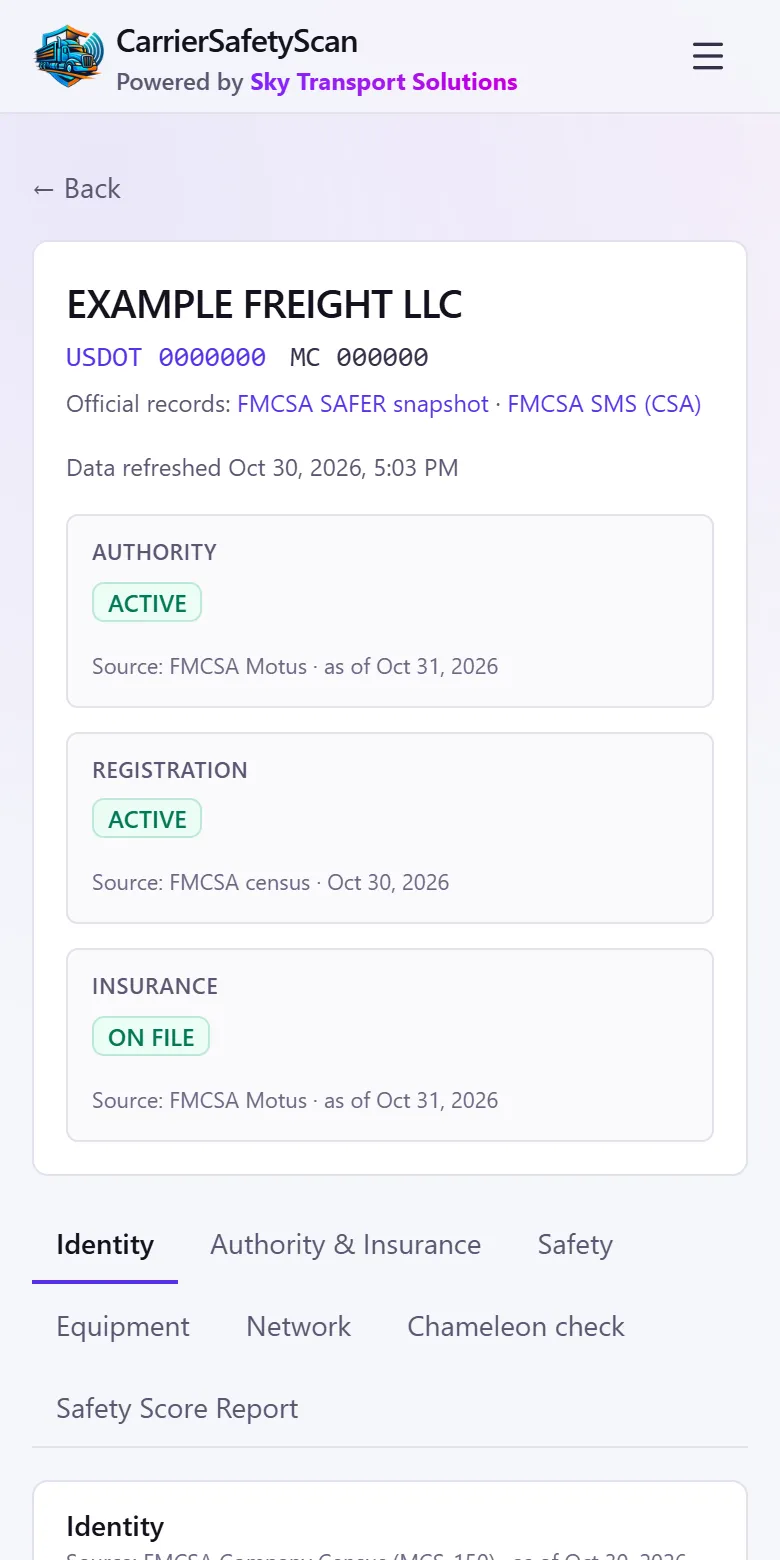
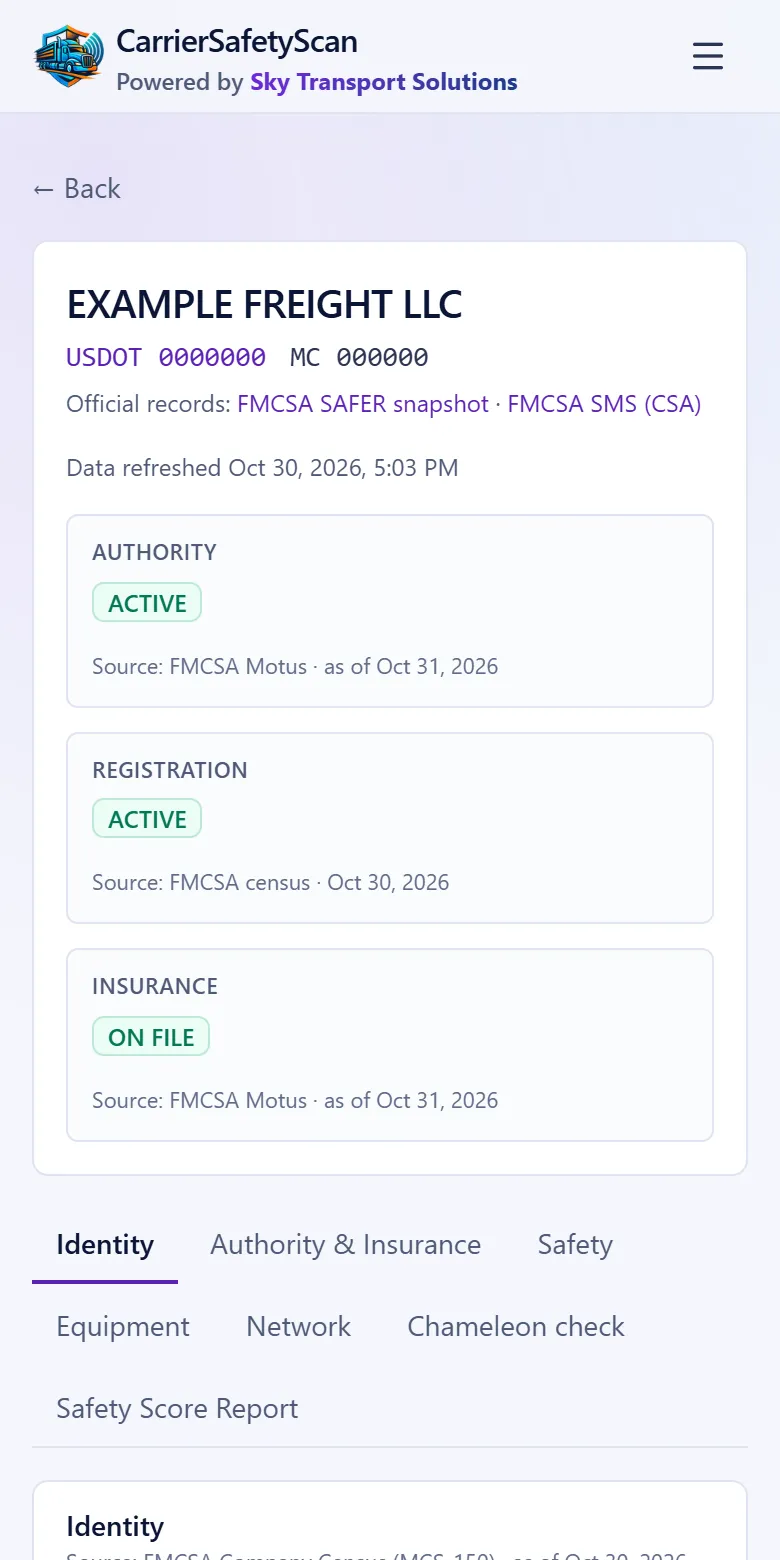
New color themes: deep blue, white and violet; black, blue and orange
- Light: white with deep blue actions and violet as the accent.
- Dark: black with blue, and orange as the one accent.
- Panels with white text get their own tokens, so they stay readable in
  both themes; printing always uses the light colors.
- The landing page's sample screens are retaken in the new colors.

diff --git a/frontend/src/index.css b/frontend/src/index.css
@@ -8,9 +8,10 @@
  * indigo tint, so every page takes its colours from this one place. Status colours (emerald /
  * amber / red / sky): 50 = the tint behind a badge, 600 = icons and solid marks, 700 = text.
  *
- * One rule keeps the primary action easy to find: violet means "you can click this".
- * `cta` is for the main action on a screen, `accent` for other interactive violet (selected
- * toggles, focus borders), `accent-strong` for links. Icons, labels and info callouts that
+ * One rule keeps the primary action easy to find: the brand colours mean "you can click this".
+ * `cta` is for the main action on a screen (deep blue; orange in dark), `accent` for other
+ * interactive marks (selected toggles, focus borders: violet; blue in dark), `accent-strong` for
+ * links. Icons, labels and info callouts that
  * cannot be clicked use the slate or sky scales instead. The `brand-*` glows are decoration
  * only and never sit on a control.
  *
@@ -18,17 +19,17 @@
  * theme is below as :root[data-theme="dark"]; the header's theme switch (src/theme.ts) sets it.
  */
 @theme static {
-  --color-canvas: #f5f6fa; /* page background */
+  --color-canvas: #f5f7fc; /* page background */
   --color-surface: #ffffff; /* cards */
 
-  --color-cta: #6d4aff; /* primary action */
-  --color-cta-hover: #5b39f0; /* deepens under the pointer */
-  --color-cta-active: #4c2bd9; /* pressed */
+  --color-cta: #1e3a8a; /* primary action */
+  --color-cta-hover: #172f73; /* deepens under the pointer */
+  --color-cta-active: #122559; /* pressed */
   --color-cta-ink: #ffffff; /* label on any cta state: 5.2-8:1 */
-  --color-accent: #6d4aff; /* other interactive violet: selected toggles, focus borders */
-  --color-accent-strong: #5631e8; /* links: 7:1 on surface */
-  --color-accent-soft: #efeaff; /* tint behind a selected control */
-  --color-focus: #6d4aff; /* keyboard focus ring */
+  --color-accent: #6d28d9; /* other interactive violet: selected toggles, focus borders */
+  --color-accent-strong: #5b21b6; /* links: 7:1 on surface */
+  --color-accent-soft: #f1ebff; /* tint behind a selected control */
+  --color-focus: #6d28d9; /* keyboard focus ring */
 
   /* Semantic feedback: text / tinted background pairs. */
   --color-success: var(--color-emerald-700);
@@ -44,25 +45,49 @@
   --color-chart-1: #3987e5;
   --color-chart-2: #d95926;
 
+  /* Solid brand panels with white text on them (5:1 or more). */
+  --color-panel-a: #5b21b6;
+  --color-panel-b: #1e3a8a;
+
   /* Decorative brand light: glows, shadows, the hero illustration. Never on a control. */
-  --color-brand-glow: #8b5cf6;
-  --color-brand-glow-alt: #e879f9;
+  --color-brand-glow: #6d28d9;
+  --color-brand-glow-alt: #2563eb;
 }
 
-@theme {
+@theme static {
   --font-sans: 'Inter', ui-sans-serif, system-ui, sans-serif;
 
-  --color-slate-50: #f7f7fb; /* raised fill: table heads, hover rows */
-  --color-slate-100: #efeef6; /* sunken fill: chips, pending badges */
-  --color-slate-200: #e2e1ec; /* hairline */
-  --color-slate-300: #8f8ba8; /* input border: 3.3:1 */
-  --color-slate-400: #6b6782; /* subtle text, placeholders: 5.4:1 */
-  --color-slate-500: #5a5671; /* muted text, labels: 7:1 */
-  --color-slate-600: #4a4661;
-  --color-slate-700: #34314a; /* body copy */
-  --color-slate-800: #24213a;
-  --color-slate-900: #14121f; /* headings, primary text */
-  --color-slate-950: #0b0a14;
+  --color-slate-50: #f6f8fc; /* raised fill: table heads, hover rows */
+  --color-slate-100: #eef1f8; /* sunken fill: chips, pending badges */
+  --color-slate-200: #dfe4f0; /* hairline */
+  --color-slate-300: #8490ad; /* input border: 3.3:1 */
+  --color-slate-400: #5f6b88; /* subtle text, placeholders: 5.4:1 */
+  --color-slate-500: #4e5a77; /* muted text, labels: 7:1 */
+  --color-slate-600: #3e4966;
+  --color-slate-700: #2b3552; /* body copy */
+  --color-slate-800: #1b2540;
+  --color-slate-900: #0b1636; /* headings, primary text */
+  --color-slate-950: #060d24;
+
+  --color-violet-50: #f5f3ff;
+  --color-violet-100: #ede9fe;
+  --color-violet-200: #ddd6fe;
+  --color-violet-300: #c4b5fd;
+  --color-violet-400: #a78bfa;
+  --color-violet-500: #8b5cf6;
+  --color-violet-600: #6d28d9;
+  --color-violet-700: #5b21b6;
+  --color-violet-900: #3b0f7a;
+  --color-violet-950: #2e1065;
+  --color-fuchsia-200: #c7d2fe;
+  --color-fuchsia-300: #a5b4fc;
+  --color-fuchsia-400: #6d7fe8;
+  --color-fuchsia-500: #3b4fd8;
+  --color-fuchsia-600: #1e3a8a;
+  --color-fuchsia-700: #172f73;
+  --color-fuchsia-800: #122559;
+  --color-indigo-400: #6d7fe8;
+  --color-indigo-600: #1e3a8a;
 
   --color-emerald-50: #ecfdf5;
   --color-emerald-200: #a7f3d0;
@@ -90,27 +115,50 @@
 /* Dark theme: <html data-theme="dark">, set by the theme switch (see src/theme.ts). */
 :root[data-theme='dark'] {
   color-scheme: dark;
-  --color-canvas: #110f1c;
-  --color-surface: #1a1828;
-  --color-cta: #a48bff;
-  --color-cta-hover: #b9a6ff;
-  --color-cta-active: #9376f5;
-  --color-cta-ink: #140f2b;
-  --color-accent: #a48bff;
-  --color-accent-strong: #b7a6ff;
-  --color-accent-soft: #2a2350;
-  --color-focus: #c9bbff;
-  --color-slate-50: #221f33;
-  --color-slate-100: #2a2740;
-  --color-slate-200: #2f2c45;
-  --color-slate-300: #6b6790;
-  --color-slate-400: #8f8bab;
-  --color-slate-500: #a9a5c2;
-  --color-slate-600: #bab6d0;
-  --color-slate-700: #cdcae0;
-  --color-slate-800: #e2e0ee;
-  --color-slate-900: #f4f3fa;
-  --color-slate-950: #fbfaff;
+  --color-canvas: #000000;
+  --color-surface: #0f1218;
+  --color-cta: #ff8a1f;
+  --color-cta-hover: #ff9d45;
+  --color-cta-active: #f07a0a;
+  --color-cta-ink: #0b0b0b;
+  --color-accent: #4d9fff;
+  --color-accent-strong: #6cb4ff;
+  --color-accent-soft: #10233f;
+  --color-focus: #ff9d45;
+  --color-panel-a: #1d4ed8;
+  --color-panel-b: #0b2a66;
+  --color-brand-glow: #2f7fff;
+  --color-brand-glow-alt: #ff8a1f;
+  --color-slate-50: #171b22;
+  --color-slate-100: #1d222b;
+  --color-slate-200: #272d38;
+  --color-slate-300: #6b7484;
+  --color-slate-400: #929bab;
+  --color-slate-500: #a9b1be;
+  --color-slate-600: #bdc4cf;
+  --color-slate-700: #d1d6de;
+  --color-slate-800: #e5e8ed;
+  --color-slate-900: #f5f6f8;
+  --color-slate-950: #ffffff;
+  --color-violet-50: #0d2038;
+  --color-violet-100: #12325a;
+  --color-violet-200: #1d4468;
+  --color-violet-300: #8cc4ff;
+  --color-violet-400: #6cb4ff;
+  --color-violet-500: #4d9fff;
+  --color-violet-600: #ff9d45;
+  --color-violet-700: #ffb877;
+  --color-violet-900: #0b1f3a;
+  --color-violet-950: #dbeafe;
+  --color-fuchsia-200: #ffd9b3;
+  --color-fuchsia-300: #ffb877;
+  --color-fuchsia-400: #ff9d45;
+  --color-fuchsia-500: #ff8a1f;
+  --color-fuchsia-600: #ff8a1f;
+  --color-fuchsia-700: #ffa552;
+  --color-fuchsia-800: #7a3a05;
+  --color-indigo-400: #4d9fff;
+  --color-indigo-600: #ffb877;
   --color-emerald-50: #0f2a21;
   --color-emerald-200: #1f5a43;
   --color-emerald-600: #34d399;
@@ -282,13 +330,13 @@ body {
     color-scheme: light;
     --color-canvas: #ffffff;
     --color-surface: #ffffff;
-    --color-accent: #6d4aff;
+    --color-accent: #6d28d9;
     --color-accent-strong: #5b21b6;
-    --color-accent-soft: #f1edff;
-    --color-focus: #6d4aff;
-    --color-cta: #6d4aff;
-    --color-cta-hover: #5b39f0;
-    --color-cta-active: #4c2bd9;
+    --color-accent-soft: #f1ebff;
+    --color-focus: #6d28d9;
+    --color-cta: #1e3a8a;
+    --color-cta-hover: #172f73;
+    --color-cta-active: #122559;
     --color-cta-ink: #ffffff;
     --color-slate-50: #f8fafc;
     --color-slate-100: #f1f5f9;
@@ -318,6 +366,11 @@ body {
     --color-sky-200: #bfdbfe;
     --color-sky-600: #0b62b8;
     --color-sky-700: #0b62b8;
+    --color-panel-a: #5b21b6;
+    --color-panel-b: #1e3a8a;
+    --color-violet-600: #6d28d9;
+    --color-violet-700: #5b21b6;
+    --color-fuchsia-600: #1e3a8a;
   }
   /* A4, with narrow margins so the report uses the whole page. */
   @page {

diff --git a/frontend/src/features/auth/AuthCard.tsx b/frontend/src/features/auth/AuthCard.tsx
@@ -179,22 +179,19 @@ export function AuthCard({
 function BrandPanel({ audience }: { audience: Audience }) {
   const panel = PANEL[audience]
   return (
-    <aside className="relative hidden overflow-hidden bg-gradient-to-br from-violet-600 via-violet-700 to-fuchsia-700 p-10 lg:flex lg:flex-col">
+    <aside className="relative hidden overflow-hidden bg-gradient-to-br from-panel-a to-panel-b p-10 lg:flex lg:flex-col">
       <div
         aria-hidden
-        className="absolute -right-24 -top-24 size-72 rounded-full bg-fuchsia-400/30 blur-3xl"
+        className="absolute -right-24 -top-24 size-72 rounded-full bg-white/10 blur-3xl"
       />
       <div
         aria-hidden
-        className="absolute -bottom-28 -left-20 size-72 rounded-full bg-violet-400/30 blur-3xl"
+        className="absolute -bottom-28 -left-20 size-72 rounded-full bg-white/10 blur-3xl"
       />
 
       <div className="relative">
         <h2 className="text-3xl font-semibold leading-tight tracking-tight text-white">
-          {panel.lead}{' '}
-          <span className="bg-gradient-to-r from-violet-200 via-fuchsia-200 to-violet-300 bg-clip-text text-transparent">
-            {panel.accent}
-          </span>
+          {panel.lead} <span className="text-white/75">{panel.accent}</span>
         </h2>
         <p className="mt-3 text-sm text-white/85">{panel.intro}</p>
       </div>
@@ -222,7 +219,7 @@ function BrandPanel({ audience }: { audience: Audience }) {
       <ul className="relative mt-auto flex flex-wrap gap-x-5 gap-y-2 pt-10 text-xs text-white/85">
         {['Public FMCSA & NHTSA data', 'Source named on every value'].map((point) => (
           <li key={point} className="flex items-center gap-1.5">
-            <CircleCheck className="size-3.5 text-emerald-200" aria-hidden />
+            <CircleCheck className="size-3.5 text-white/80" aria-hidden />
             {point}
           </li>
         ))}

diff --git a/frontend/src/features/billing/SubscriptionGate.tsx b/frontend/src/features/billing/SubscriptionGate.tsx
@@ -81,7 +81,7 @@ function TrialBanner({ daysLeft, price }: { daysLeft: number; price: string }) {
           type="button"
           onClick={() => subscribe.mutate()}
           disabled={subscribe.isPending}
-          className="inline-flex shrink-0 items-center gap-1.5 rounded-lg bg-violet-600 px-4 py-2 text-sm font-semibold text-white hover:bg-violet-700 disabled:opacity-60"
+          className="inline-flex shrink-0 items-center gap-1.5 rounded-lg bg-cta px-4 py-2 text-sm font-semibold text-cta-ink hover:bg-cta-hover disabled:opacity-60"
         >
           <CreditCard className="size-4" aria-hidden />
           {subscribe.isPending ? 'Opening Stripe…' : 'Subscribe now'}
@@ -108,7 +108,7 @@ function SubscribeWall({ price, confirming }: { price: string; confirming: boole
       aria-labelledby="subscribe-title"
     >
       <div className="w-full max-w-lg overflow-hidden rounded-3xl bg-surface shadow-2xl ring-1 ring-black/5">
-        <div className="bg-gradient-to-br from-violet-600 to-fuchsia-600 px-7 pb-7 pt-6 text-white">
+        <div className="bg-gradient-to-br from-panel-a to-panel-b px-7 pb-7 pt-6 text-white">
           <span className="inline-flex items-center gap-1.5 rounded-full bg-white/15 px-3 py-1 text-xs font-medium">
             <Lock className="size-3.5" aria-hidden />
             Your free trial has ended

diff --git a/frontend/src/pages/PortalDataQsPage.tsx b/frontend/src/pages/PortalDataQsPage.tsx
@@ -20,7 +20,7 @@ export function PortalDataQsPage() {
         </p>
       </div>
       {/* The price, made hard to miss: each inspection challenged is its own $50 request. */}
-      <div className="flex flex-col gap-4 rounded-2xl bg-gradient-to-br from-violet-600 to-fuchsia-600 px-6 py-5 text-white shadow-lg shadow-violet-500/25 sm:flex-row sm:items-center sm:justify-between">
+      <div className="flex flex-col gap-4 rounded-2xl bg-gradient-to-br from-panel-a to-panel-b px-6 py-5 text-white shadow-lg shadow-violet-500/25 sm:flex-row sm:items-center sm:justify-between">
         <div className="flex items-center gap-4">
           <span className="grid size-12 shrink-0 place-items-center rounded-xl bg-white/15">
             <Tag className="size-6" aria-hidden />
@@ -37,7 +37,7 @@ export function PortalDataQsPage() {
         </div>
         <a
           href="#start-request"
-          className="inline-flex shrink-0 items-center justify-center gap-2 rounded-xl bg-white px-5 py-3 text-base font-semibold text-violet-700 shadow-md hover:bg-violet-50"
+          className="inline-flex shrink-0 items-center justify-center gap-2 rounded-xl bg-white px-5 py-3 text-base font-semibold text-panel-b shadow-md hover:opacity-90"
         >
           <FilePlus2 className="size-5" aria-hidden />
           Start a request

diff --git a/frontend/src/features/dataqs/DataQsFeeCard.tsx b/frontend/src/features/dataqs/DataQsFeeCard.tsx
@@ -86,7 +86,7 @@ export function DataQsFeeCard({ dataqsCase: c }: { dataqsCase: DataQsCase }) {
         >
           <div className="w-full max-w-lg overflow-hidden rounded-3xl bg-surface shadow-2xl ring-1 ring-black/5">
             {/* Header: brand gradient, the price large */}
-            <div className="relative bg-gradient-to-br from-violet-600 to-fuchsia-600 px-7 pb-7 pt-6 text-white">
+            <div className="relative bg-gradient-to-br from-panel-a to-panel-b px-7 pb-7 pt-6 text-white">
               <button
                 type="button"
                 onClick={() => setOpen(false)}
